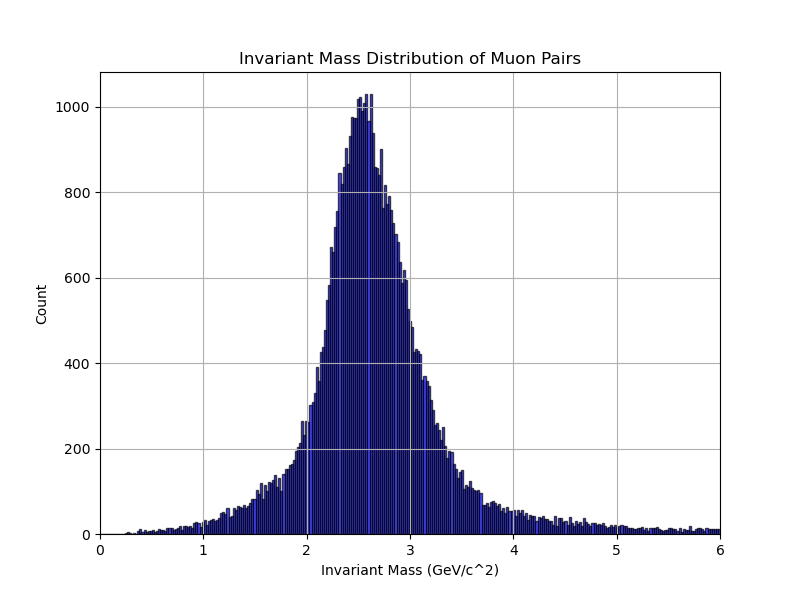
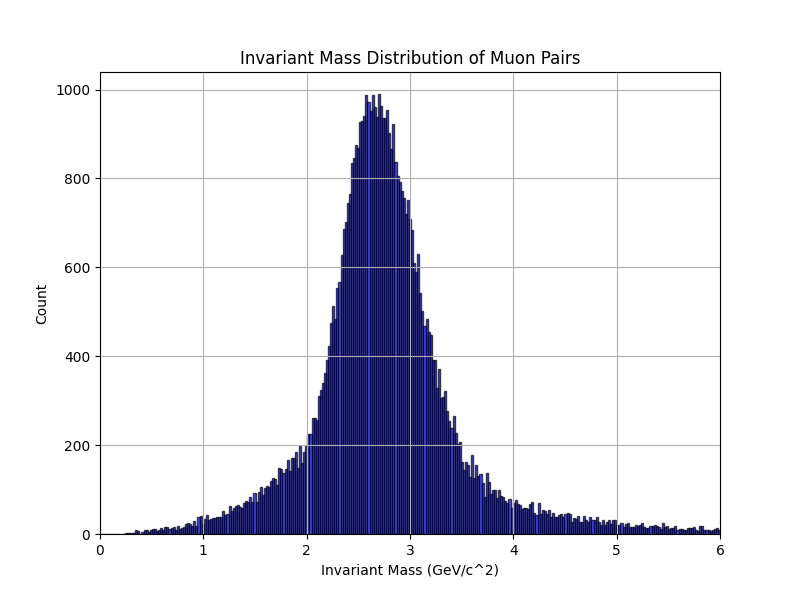
feat: fixed bugs, new scripts for multi-track

diff --git a/QTracker_training/data/skim_flat.py b/QTracker_training/data/skim_flat.py
@@ -152,12 +152,17 @@ def mass_to_bin(m):
 
 
 def main():
-    if len(sys.argv) != 3:
-        print(f"Usage: {sys.argv[0]} input.root output.root")
+    if len(sys.argv) != 3 and len(sys.argv) != 4:
+        print(f"Usage: {sys.argv[0]} input.root output.root [n_dimuons]")
         sys.exit(1)
 
     inpath = sys.argv[1]
     outpath = sys.argv[2]
+    
+    if len(sys.argv) > 3:
+        n_dimuon_out = int(sys.argv[3])
+    else:
+        n_dimuon_out = N_DIMUON_OUT
 
     ROOT.gROOT.SetBatch(True)
 
@@ -204,11 +209,11 @@ def main():
     nb = len(nonempty_bins)
 
     # Target allocation per bin: as uniform as possible, with integer counts
-    target = int(N_DIMUON_OUT)
+    target = int(n_dimuon_out)
 
     # If user requests more than available, cap to available
     if target > n_in_range:
-        print(f"WARNING: Requested N_DIMUON_OUT={target}, but only {n_in_range} events exist in range.")
+        print(f"WARNING: Requested n_dimuon_out={target}, but only {n_in_range} events exist in range.")
         target = n_in_range
 
     base = target // nb  # baseline per non-empty bin
@@ -247,7 +252,7 @@ def main():
     print(f"Tree:            {TREE_NAME}")
     print(f"Mass range:      [{MMIN}, {MMAX}) GeV")
     print(f"Flatten bins:    {NBINS}")
-    print(f"Requested out:   {N_DIMUON_OUT}")
+    print(f"Requested out:   {n_dimuon_out}")
     print(f"Planned out:     {planned_out}")
     print(f"Use gTrackID:    {use_trackid}")
     print(f"Seed:            {SEED}")

diff --git a/QTracker_training/QTracker.py b/QTracker_training/QTracker.py
@@ -17,7 +17,7 @@ USE_DECLUSTERING = False  # Toggle to enable/disable declustering
 USE_SMAXMATRIX = False  # Toggle to enable/disable write softmax matrix
 
 # Paths to model checkpoints
-MODEL_PATH_TRACK = "./checkpoints/track_finder.keras"
+MODEL_PATH_TRACK = "./checkpoints/track_finder_flagship.keras"
 MODEL_PATH_MOMENTUM_MUP = "./checkpoints/mom_mup.h5"
 MODEL_PATH_MOMENTUM_MUM = "./checkpoints/mom_mum.h5"
 MODEL_PATH_METRIC = "./checkpoints/chi2_predictor.h5"
